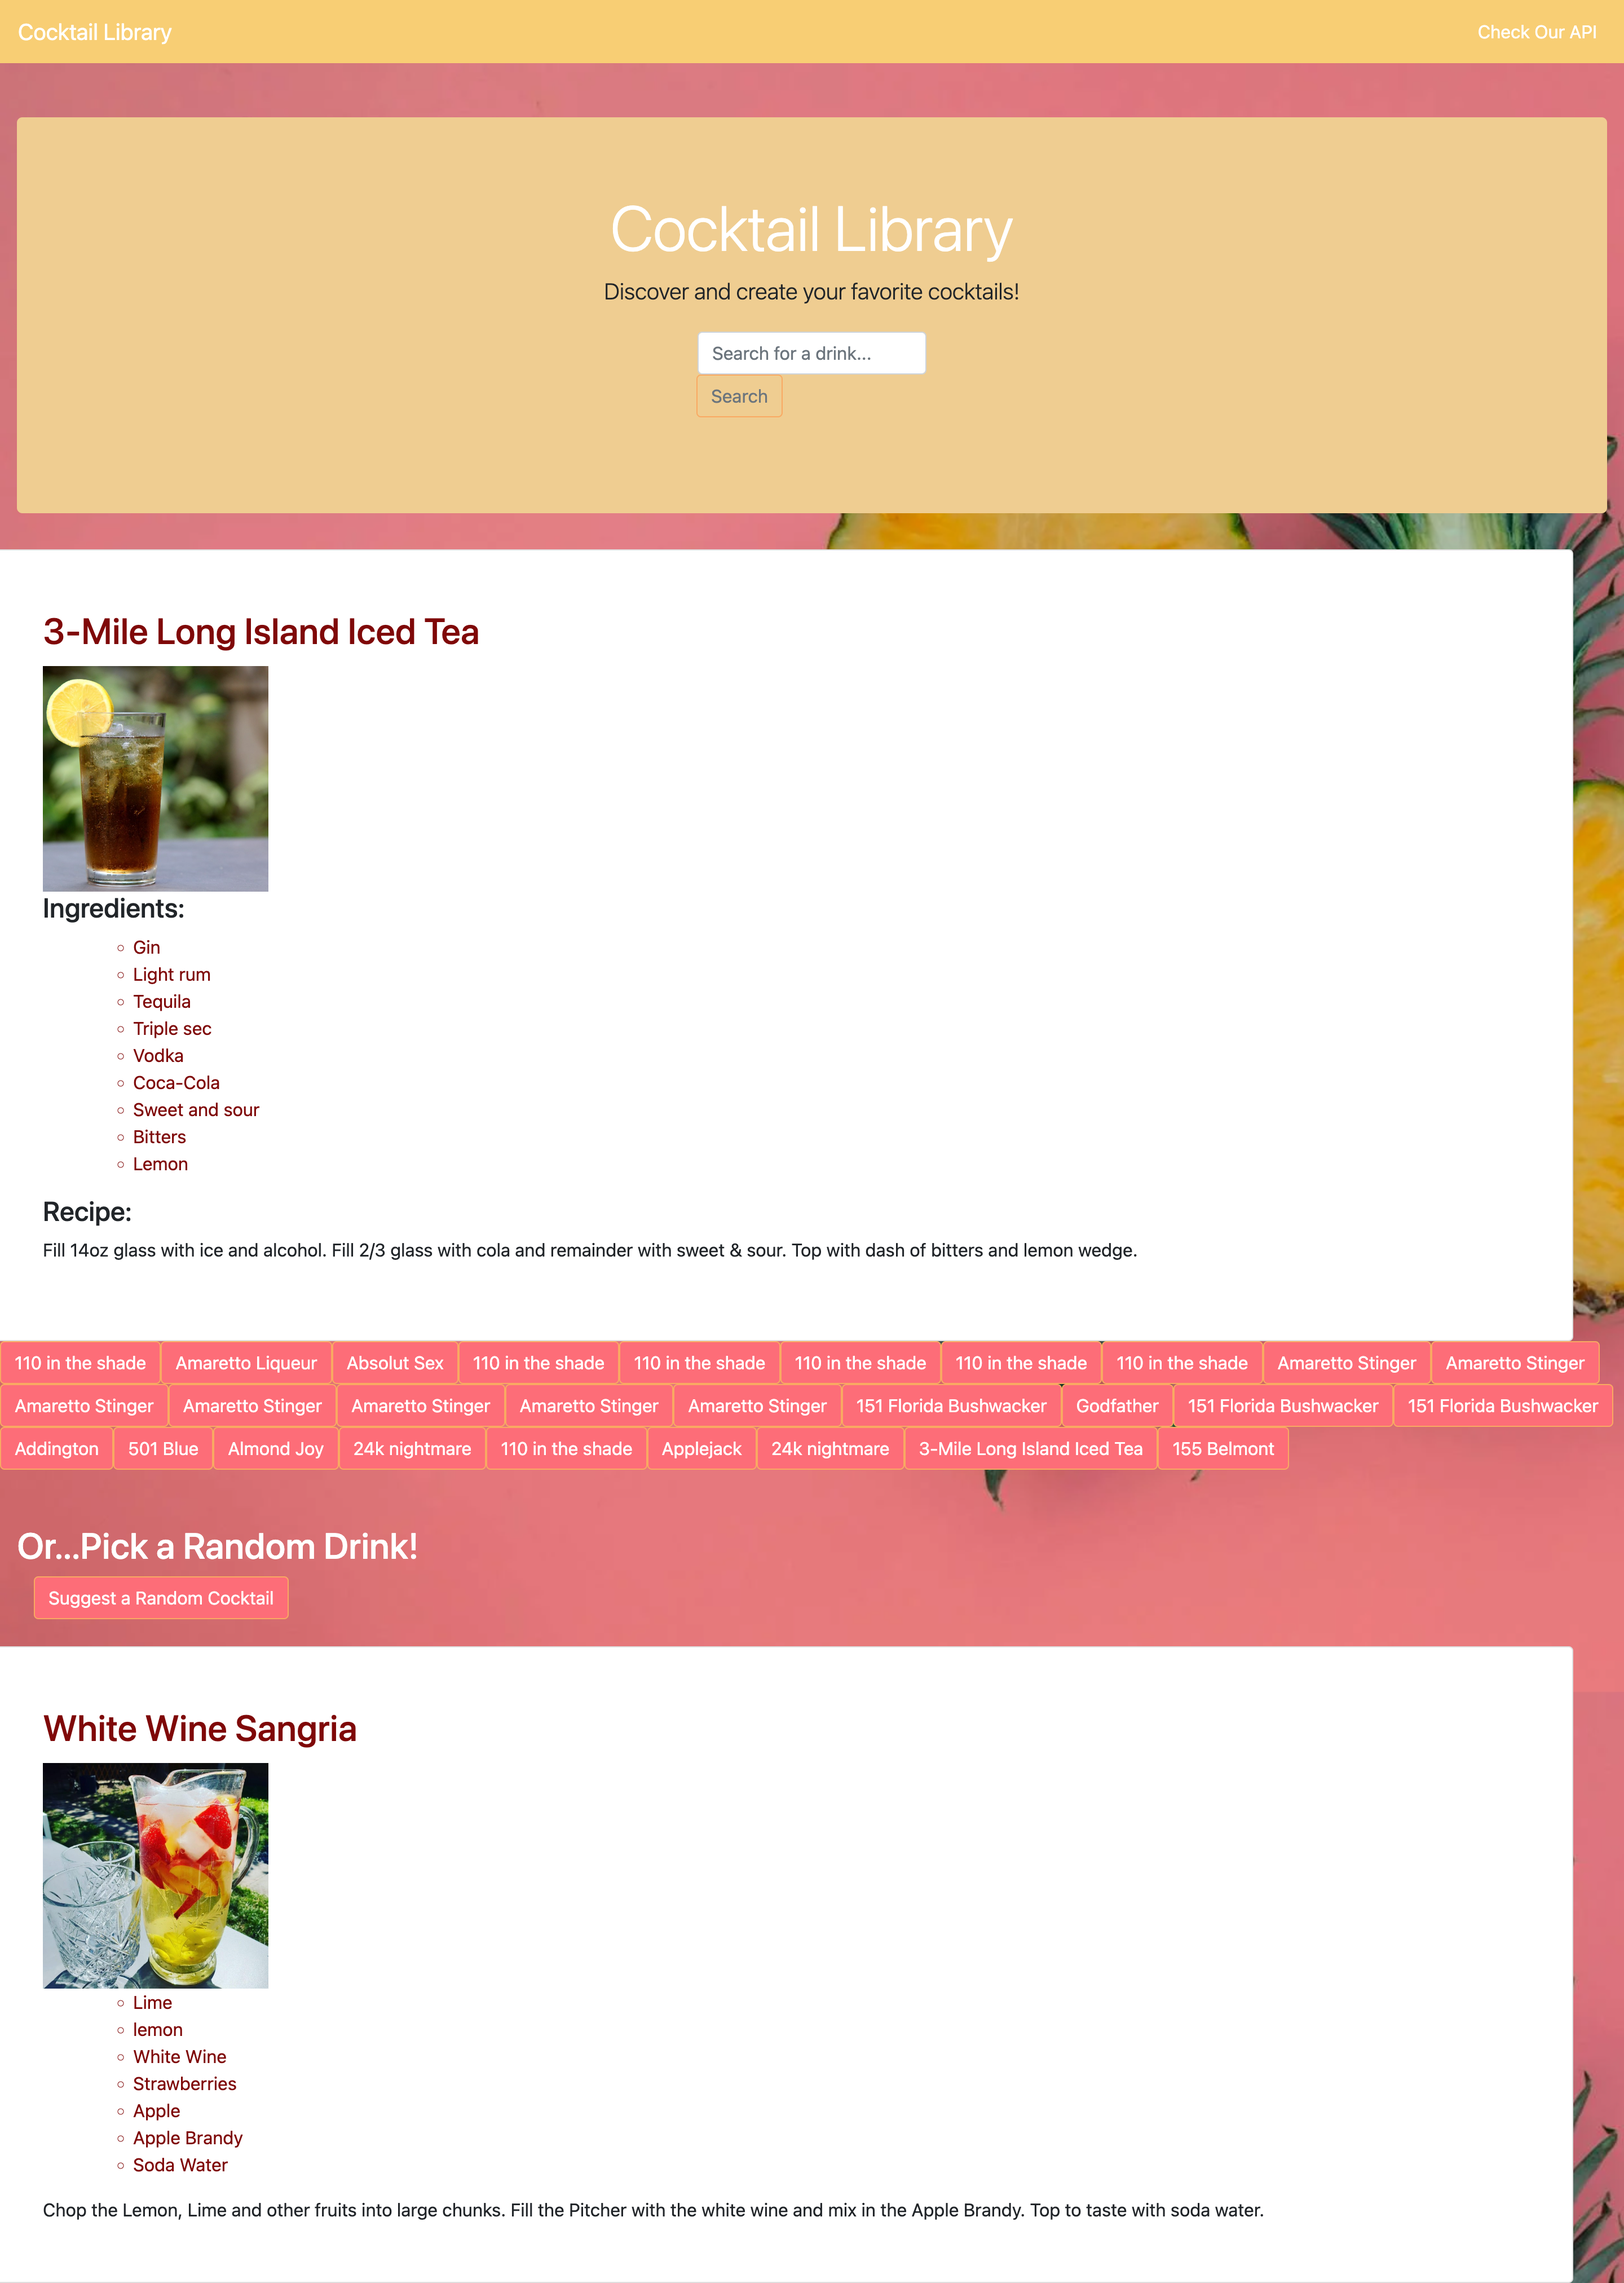
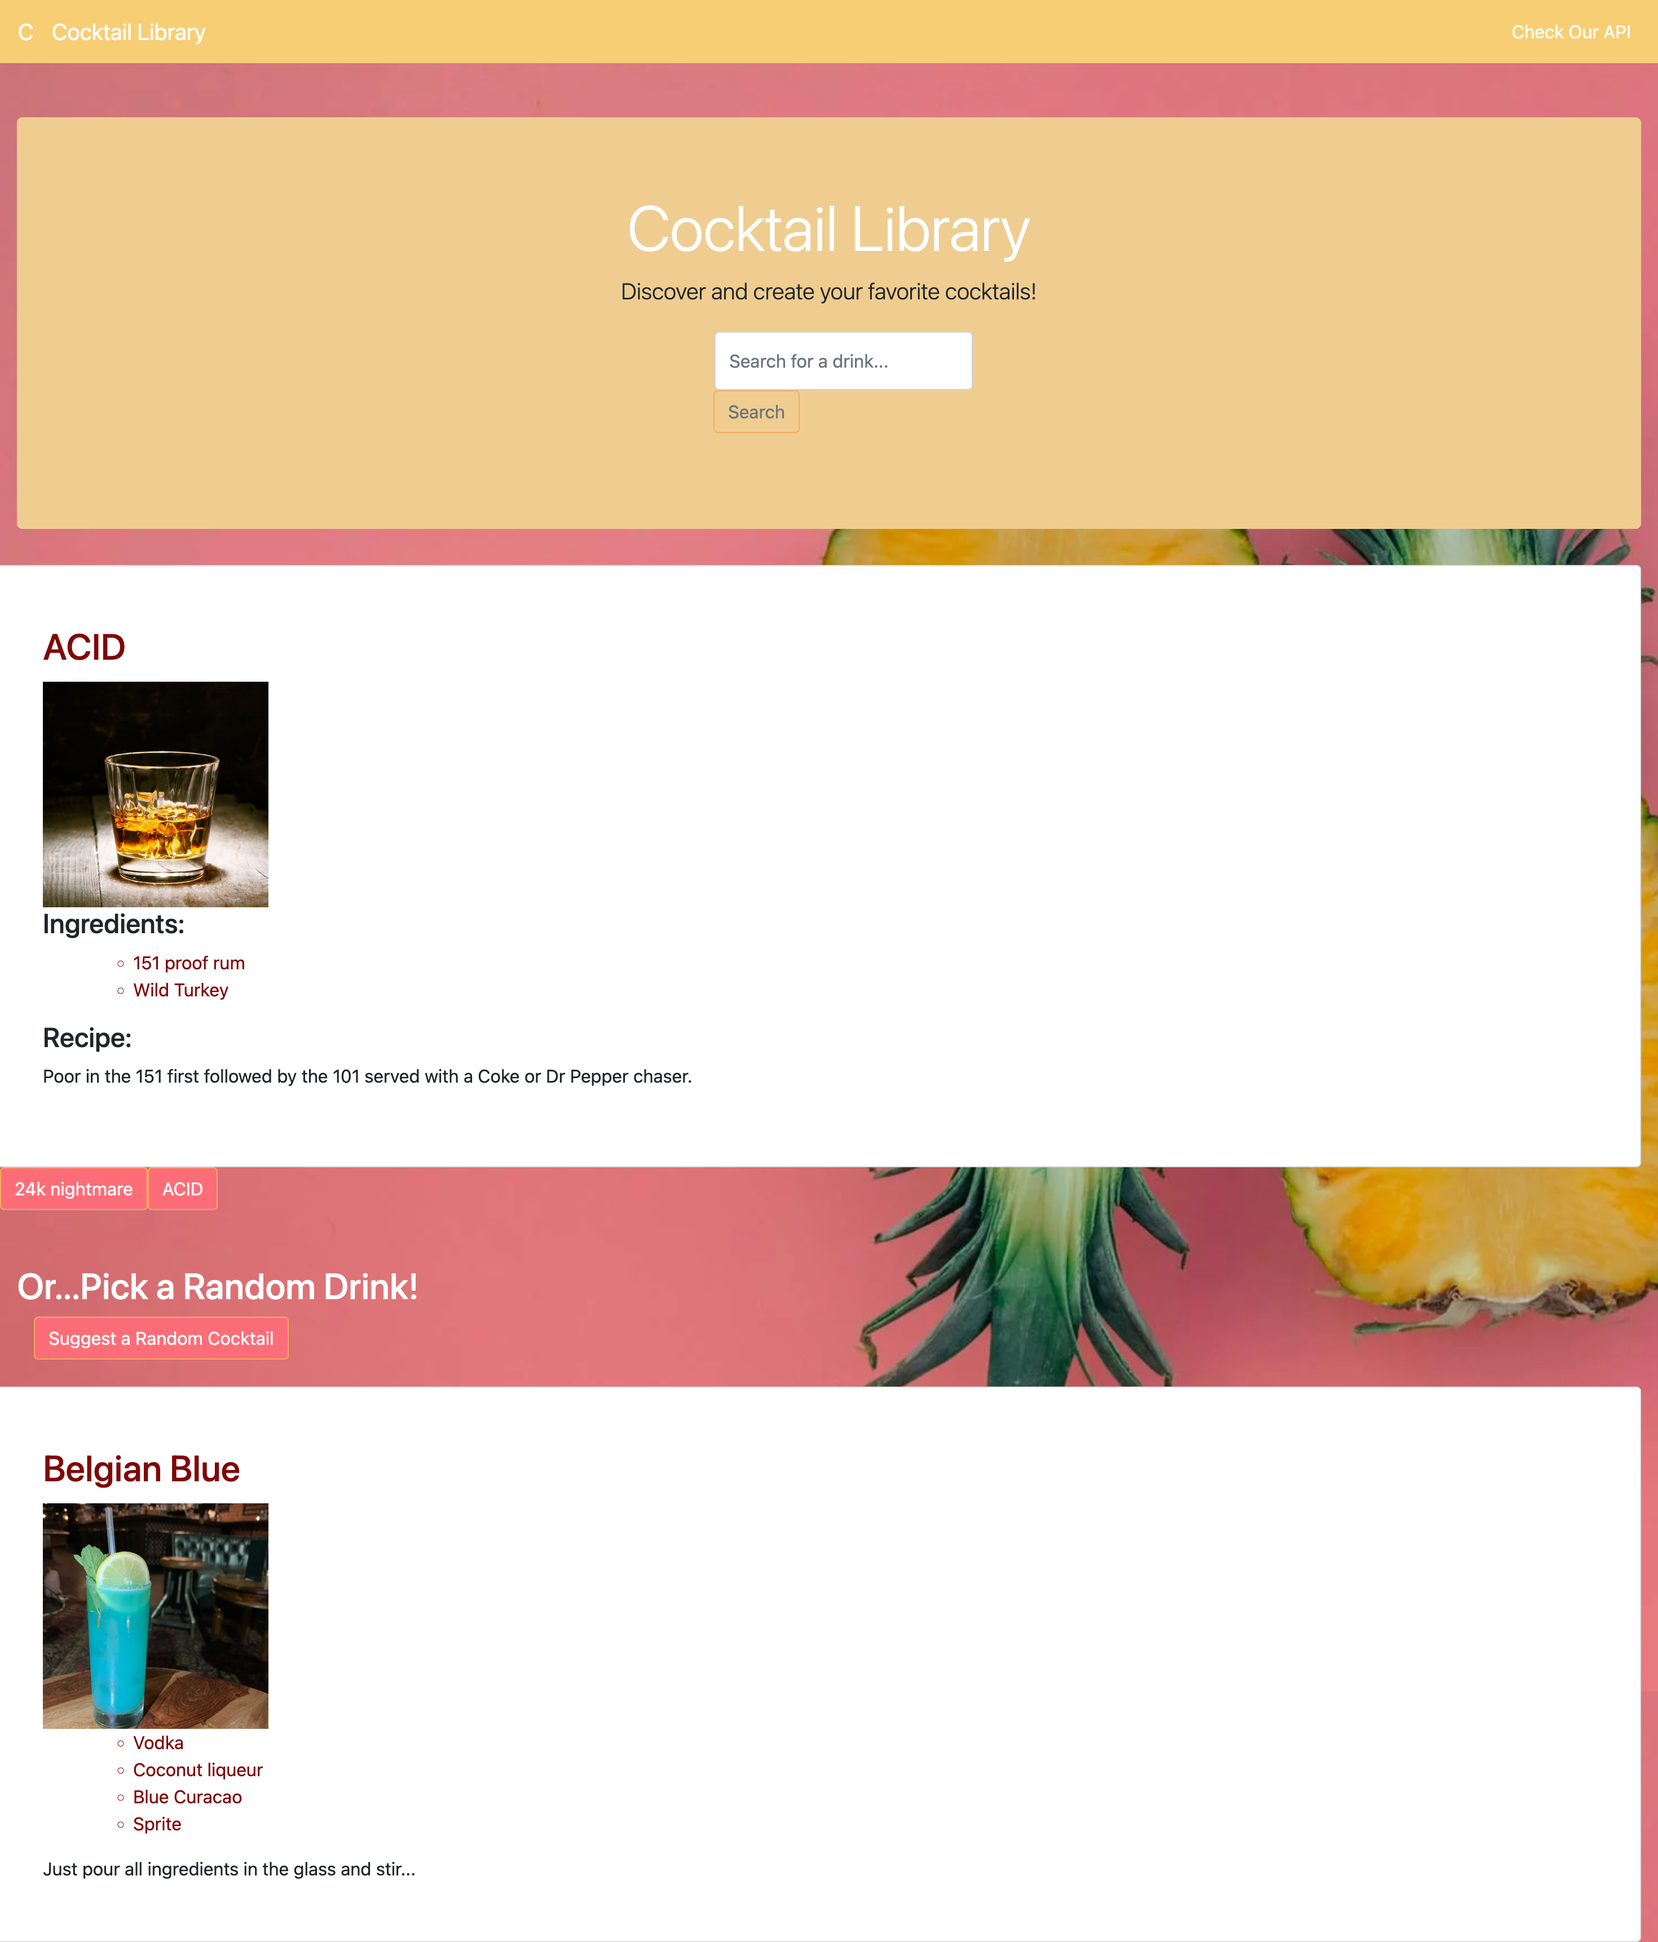
added the updated screenshots to readme and fixed two minor errors in description

Changed region(s): [[0.0, 0.0932, 1.0, 1.0], [0.0, 0.0, 1.0, 0.0621]]

diff --git a/README.md b/README.md
@@ -17,7 +17,7 @@ We created our Library to encompass anything from combining whiskey and cola to 
 # <a name='Description'></a>Description
 This is a web application that allows users to search for cocktail recipes and explore their ingredients.
 
-The cocktail project features an on-net database that contains cocktail information which can be integrated into applications, software, and websites. We used a JSON API to get a vast array of cocktail recipes. A personal key or application was required to access this API. A html file and CSS script was coded to best showcase our skills.  
+The cocktail project features an on-net database that contains cocktail information which can be integrated into applications, software, and websites. We used a JSON API to get a vast array of cocktail recipes. A personal key or application was required to access this API. A html file and CSS script was coded to best showcase our skills. The page is mobile and desktop responsive due to the usage of Bootstrap.
 
 
 ## <a name='TableofContents'></a>Table of Contents
@@ -75,11 +75,11 @@ If you'd like to contribute to the project, please follow these steps:
 ## Acknowledgments
 
 - Thanks to [The Cocktail DB](https://www.thecocktaildb.com/) for providing the cocktail data.
-- Inspiration for this project came from [mention any inspiration or resources below].
-
+- Inspiration for this project came from a collective brainstorming within the group.
 - Special thanks [EdX Bootcamp](https://www.edx.org/) for giving us the opportunity to work on this project.
 - Special thanks to our Teaching Assitant, Kimberly Rodriguez.
 - Special thanks to Laura Cole, our main Bootcamp Tutor.
+- Special thanks to [Bootstrap](https://getbootstrap.com/).
 - Special thanks to [Tome.app](https://tome.app/) for AI generating images for our presentation.
 - Special thanks to [Google](https://google.com) for allowing us to search for resources for our page.
 - Special thanks to [Pexels](https://images.pexels.com) for our background image.
